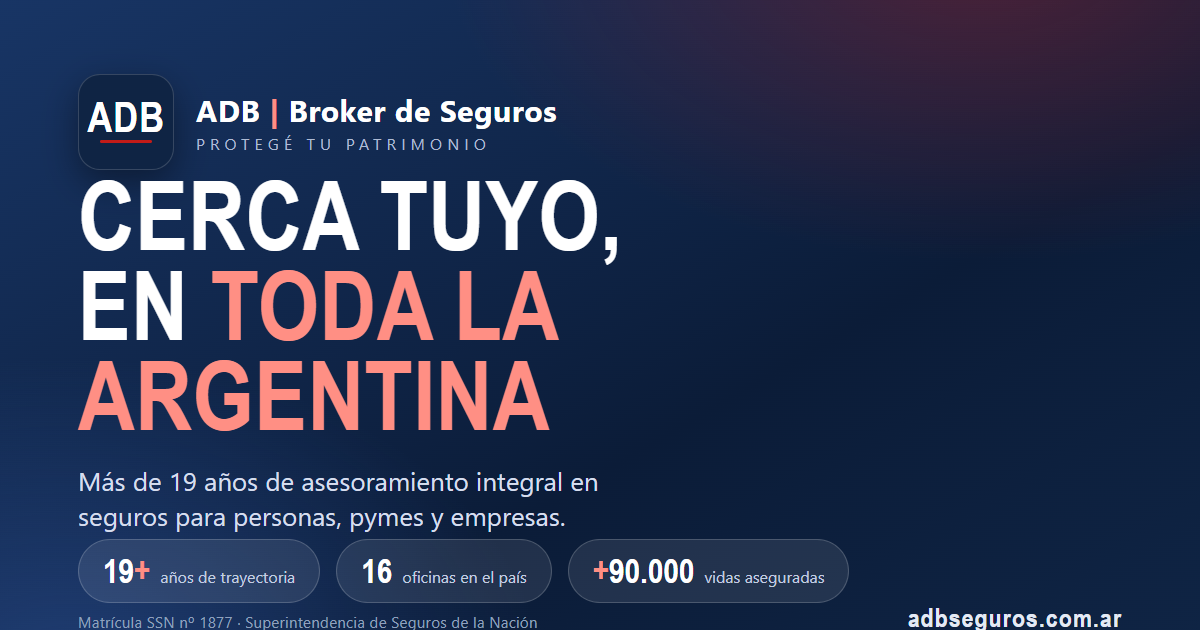
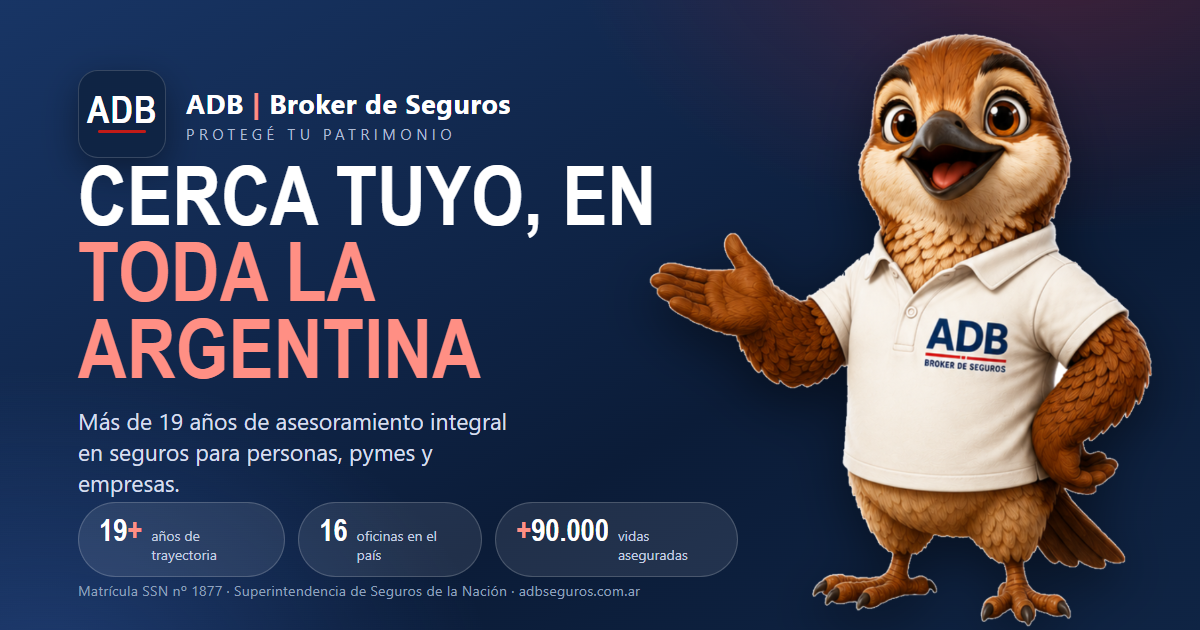
@ Agrega a Horacio (hornero mascota) al hero y a la imagen social
- Reemplaza el SVG del nido por la ilustración de Horacio con la remera
  ADB, fondo recortado transparente (webp + png vía <picture>).
- Rediseña og-image.png para incluir a Horacio junto al mensaje de marca.

@

diff --git a/index.html b/index.html
@@ -261,7 +261,8 @@
   }
   .nest-card h3 { font-family: var(--font-display); text-transform: uppercase; font-size: 1.5rem; color:#fff; letter-spacing:.02em; }
   .nest-card p { color:#c3cee2; font-size:.95rem; margin-top:10px; }
-  .nest-emblem { width: 118px; height: 118px; margin: 6px auto 22px; }
+  .horacio { display:block; width:86%; max-width:290px; margin:2px auto 20px; }
+  .horacio img { width:100%; height:auto; display:block; filter: drop-shadow(0 20px 24px rgba(0,0,0,.38)); }
   .float { animation: float 6s ease-in-out infinite; }
   @keyframes float { 0%,100%{ transform: translateY(0);} 50%{ transform: translateY(-9px);} }
   @media (prefers-reduced-motion: reduce){ .float{ animation:none; } }
@@ -674,36 +675,16 @@
     </div>
 
     <div class="hero-art">
-      <div class="nest-card float">
+      <div class="nest-card">
         <span class="tag">
           <svg width="15" height="15" viewBox="0 0 24 24" fill="currentColor"><circle cx="12" cy="12" r="10"/></svg>
           100% Argentino
         </span>
-        <svg class="nest-emblem" viewBox="0 0 120 120" role="img" aria-label="Nido del hornero, símbolo de protección del hogar">
-          <defs>
-            <linearGradient id="ng" x1="0" y1="0" x2="0" y2="1">
-              <stop offset="0" stop-color="#ffffff" stop-opacity=".22"/>
-              <stop offset="1" stop-color="#ffffff" stop-opacity=".05"/>
-            </linearGradient>
-          </defs>
-          <!-- branch -->
-          <line x1="12" y1="104" x2="108" y2="104" stroke="#ffb4a9" stroke-width="3" stroke-linecap="round"/>
-          <!-- hornero clay-oven nest (dome) -->
-          <path d="M30 104 A34 34 0 0 1 98 104 Z" fill="url(#ng)" stroke="#ffffff" stroke-width="2.4" stroke-opacity=".85"/>
-          <path d="M30 104 A34 34 0 0 1 98 104" fill="none" stroke="#ffffff" stroke-width="0"/>
-          <!-- entrance -->
-          <path d="M74 104 A16 16 0 0 1 90 104 Z" fill="#0f2444"/>
-          <path d="M74 104 A16 16 0 0 1 90 104" fill="none" stroke="#ffb4a9" stroke-width="2"/>
-          <!-- ridge lines of the nest -->
-          <path d="M40 92 A26 26 0 0 1 88 92" fill="none" stroke="#ffffff" stroke-width="1.4" stroke-opacity=".5"/>
-          <path d="M50 82 A18 18 0 0 1 82 84" fill="none" stroke="#ffffff" stroke-width="1.4" stroke-opacity=".4"/>
-          <!-- little bird -->
-          <circle cx="46" cy="70" r="10" fill="#ffb4a9"/>
-          <circle cx="52" cy="60" r="6.5" fill="#ff8f84"/>
-          <path d="M57 60 l7 -2 -5 5 Z" fill="#c21b18"/>
-          <circle cx="53.5" cy="59" r="1.3" fill="#0f2444"/>
-          <path d="M38 74 l-9 3 8 3 Z" fill="#ff8f84"/>
-        </svg>
+        <picture class="horacio float">
+          <source srcset="/horacio.webp" type="image/webp">
+          <img src="/horacio.png" width="760" height="895" decoding="async"
+               alt="Horacio, el hornero mascota de ADB Broker de Seguros, con la remera institucional, dando la bienvenida">
+        </picture>
         <h3>Horacio construye tranquilidad</h3>
         <p>Como el hornero levanta su hogar antes de la tormenta, en ADB construimos la protección que tu familia y tu negocio merecen.</p>
       </div>
